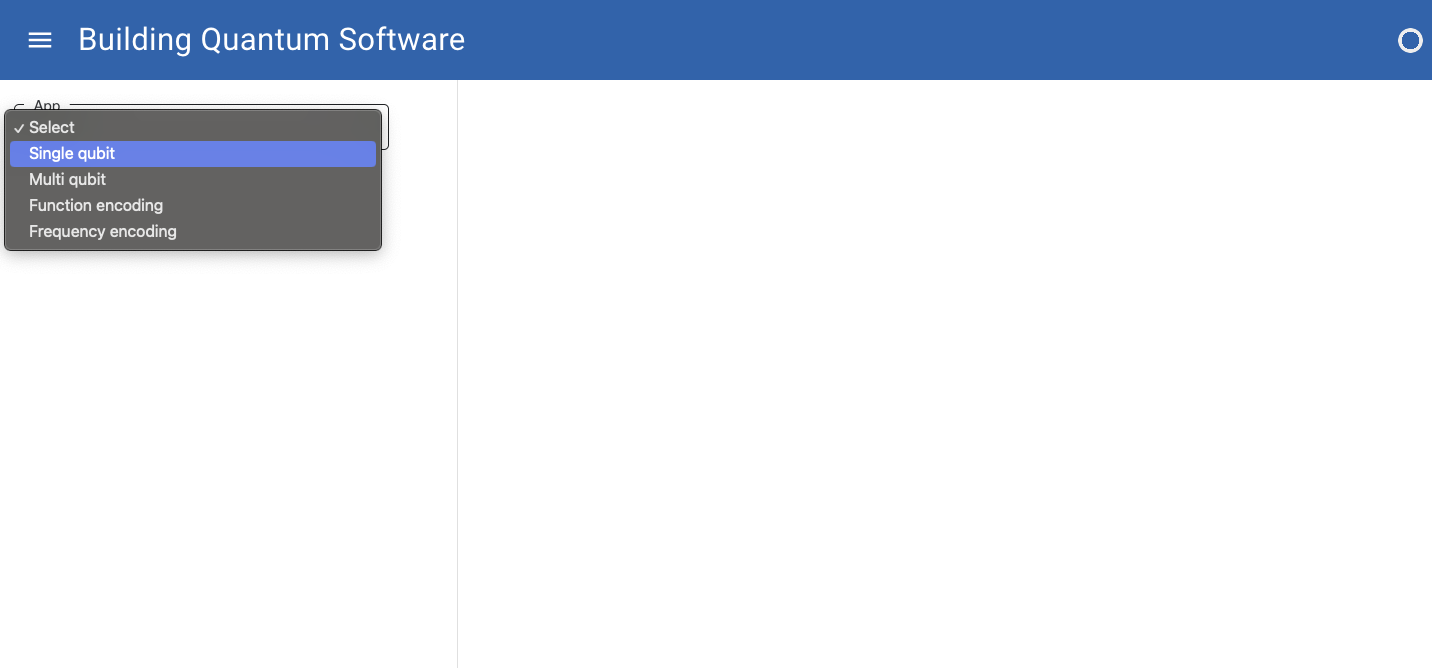
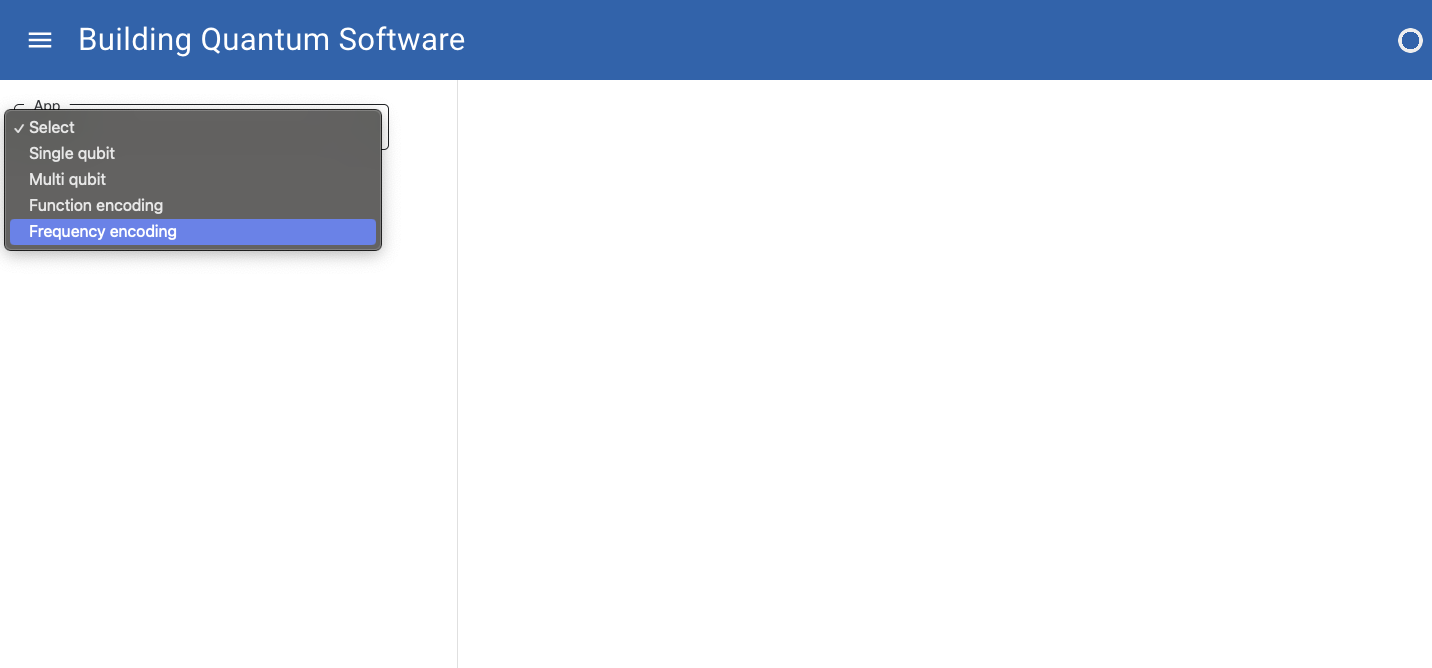
update readme

Changed region(s): [[0.0, 0.3293, 0.2765, 0.3892], [0.0, 0.2096, 0.2765, 0.2695]]

diff --git a/src/components/combined_component.py b/src/components/combined_component.py
@@ -174,7 +174,8 @@ def terms_from_poly(poly_str, num_bits, is_poly):
 
         for symbol in s.free_symbols:
             if symbol not in var_list:
-                return "Error: Invalid symbol"
+
+                return f"Error: {symbol} is invalid"
             
         # for term in s.terms():
         #     if sum(term[0]) < 1:

diff --git a/README.md b/README.md
@@ -34,6 +34,16 @@ source bqs-env/bin/activate
 pip install -r requirements.txt
 ```
 
+## Run the interactive application
+
+```bash
+cd src 
+python -m panel serve experiments/combined.py --show
+```
+
+![Home Screen](./assets/images/combined_app_first.png)
+![Frequency Encoding App](./assets/images/combined_app_second.png)
+
 ## Run the single-qubit UI application
 
 ```bash
